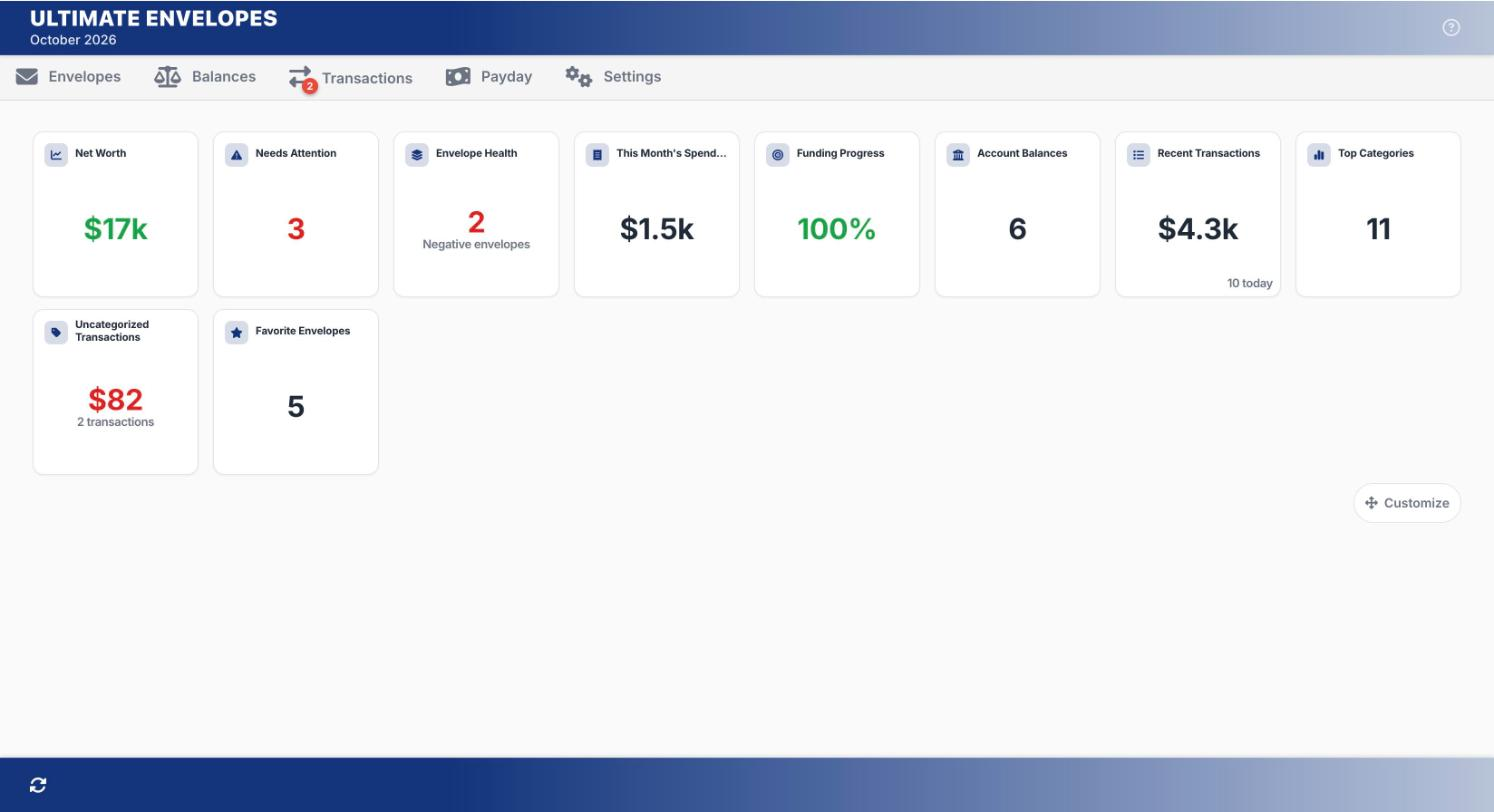
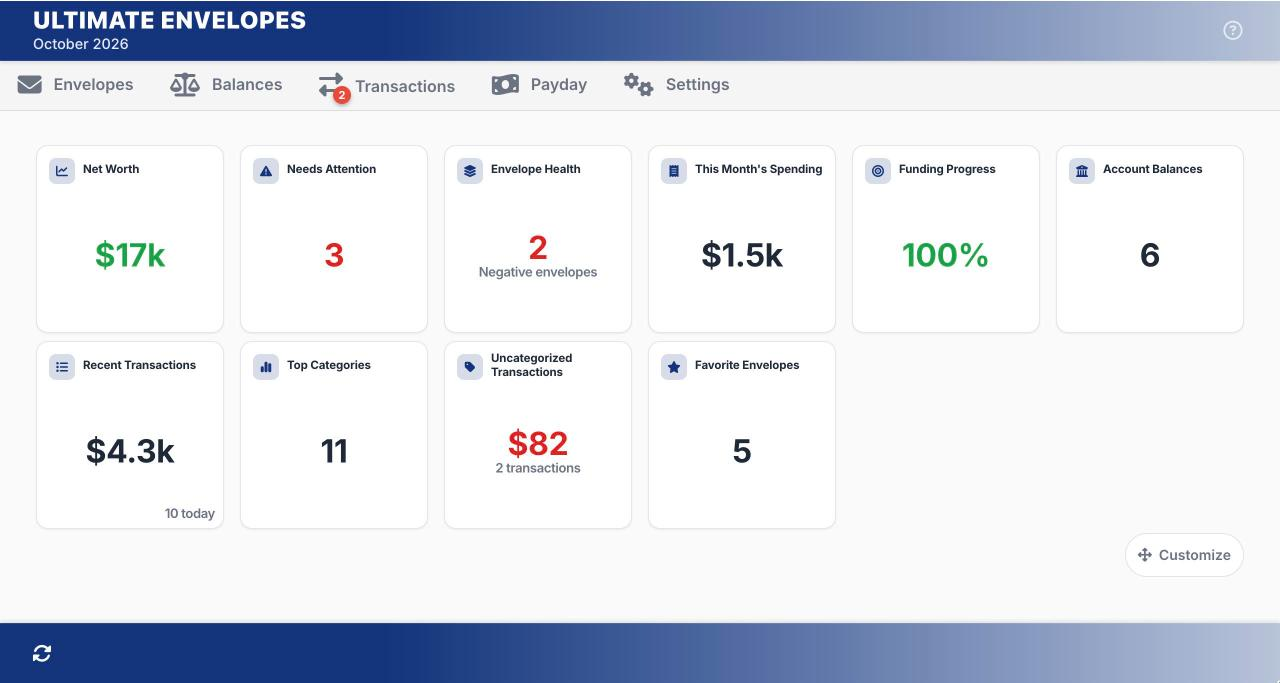
Docs: larger-screen screenshots for every Companion tab page
31 desktop captures (1280px window) next to their phone versions; the
Phone / Larger screen switch picks them up automatically. Carousels give
wide slides more room.

diff --git a/assets/css/main.scss b/assets/css/main.scss
@@ -518,3 +518,8 @@ figure.phone-screenshot.is-desktop-shot img {
   max-width: 100%;
   max-height: none;
 }
+/* Carousel item showing its larger-screen picture: wider slide */
+.screenshot-carousel__item.is-desktop-shot {
+  width: min(640px, 85%);
+  max-width: none;
+}

diff --git a/CLAUDE.md b/CLAUDE.md
@@ -142,7 +142,7 @@ Current sheet page image names: `sheet-envelopes-overview.jpg`, `sheet-envelopes
 
 `og-image.png` (1200×630, cropped from the UE26 cover image) is the default link-preview image set by `og_image` in `_config.yml`.
 
-**Phone and larger-screen versions.** To give a screenshot a larger-screen (desktop) version, save it next to the phone one with `-desktop` added before the extension (`companion-balances-tab.jpg` → `companion-balances-tab-desktop.jpg`; the image type can differ). No Markdown change: `assets/js/device-shots.js` finds these files, adds a **Phone / Larger screen** switch at the top of any page that has one, and swaps the pictures (default: the reader's screen size, then whatever they last picked). In Larger screen mode, a `screenshot-grid` that has any desktop pictures shows them one per row and hides its phone-only pictures, since one wide view usually covers several phone views. Capture desktop shots from the app at a 1280px-wide browser window, Google's banner closed.
+**Phone and larger-screen versions.** To give a screenshot a larger-screen (desktop) version, save it next to the phone one with `-desktop` added before the extension (`companion-balances-tab.jpg` → `companion-balances-tab-desktop.jpg`; the image type can differ). No Markdown change: `assets/js/device-shots.js` finds these files, adds a **Phone / Larger screen** switch at the top of any page that has one, and swaps the pictures (default: the reader's screen size, then whatever they last picked). In Larger screen mode, a `screenshot-grid` that has any desktop pictures shows them one per row and hides its phone-only pictures, since one wide view usually covers several phone views. Capture desktop shots from the app at a 1280px-wide browser window (1280×683 page), Google's banner closed, the mouse pointer parked in the bottom-right corner, and crop off the footer if it shows the version number. Carousels (`screenshot-carousel.html`) give a larger-screen slide more width. Current set: every Companion tab page and the App overview; Getting Started (Google's deployment screens) and the Categorize/Split close-ups are phone-only.
 
 Every figure image opens full size in a lightbox when clicked (`assets/js/image-zoom.js`, loaded via `after_footer_scripts` in `_config.yml`) — no per-image setting needed.
 
